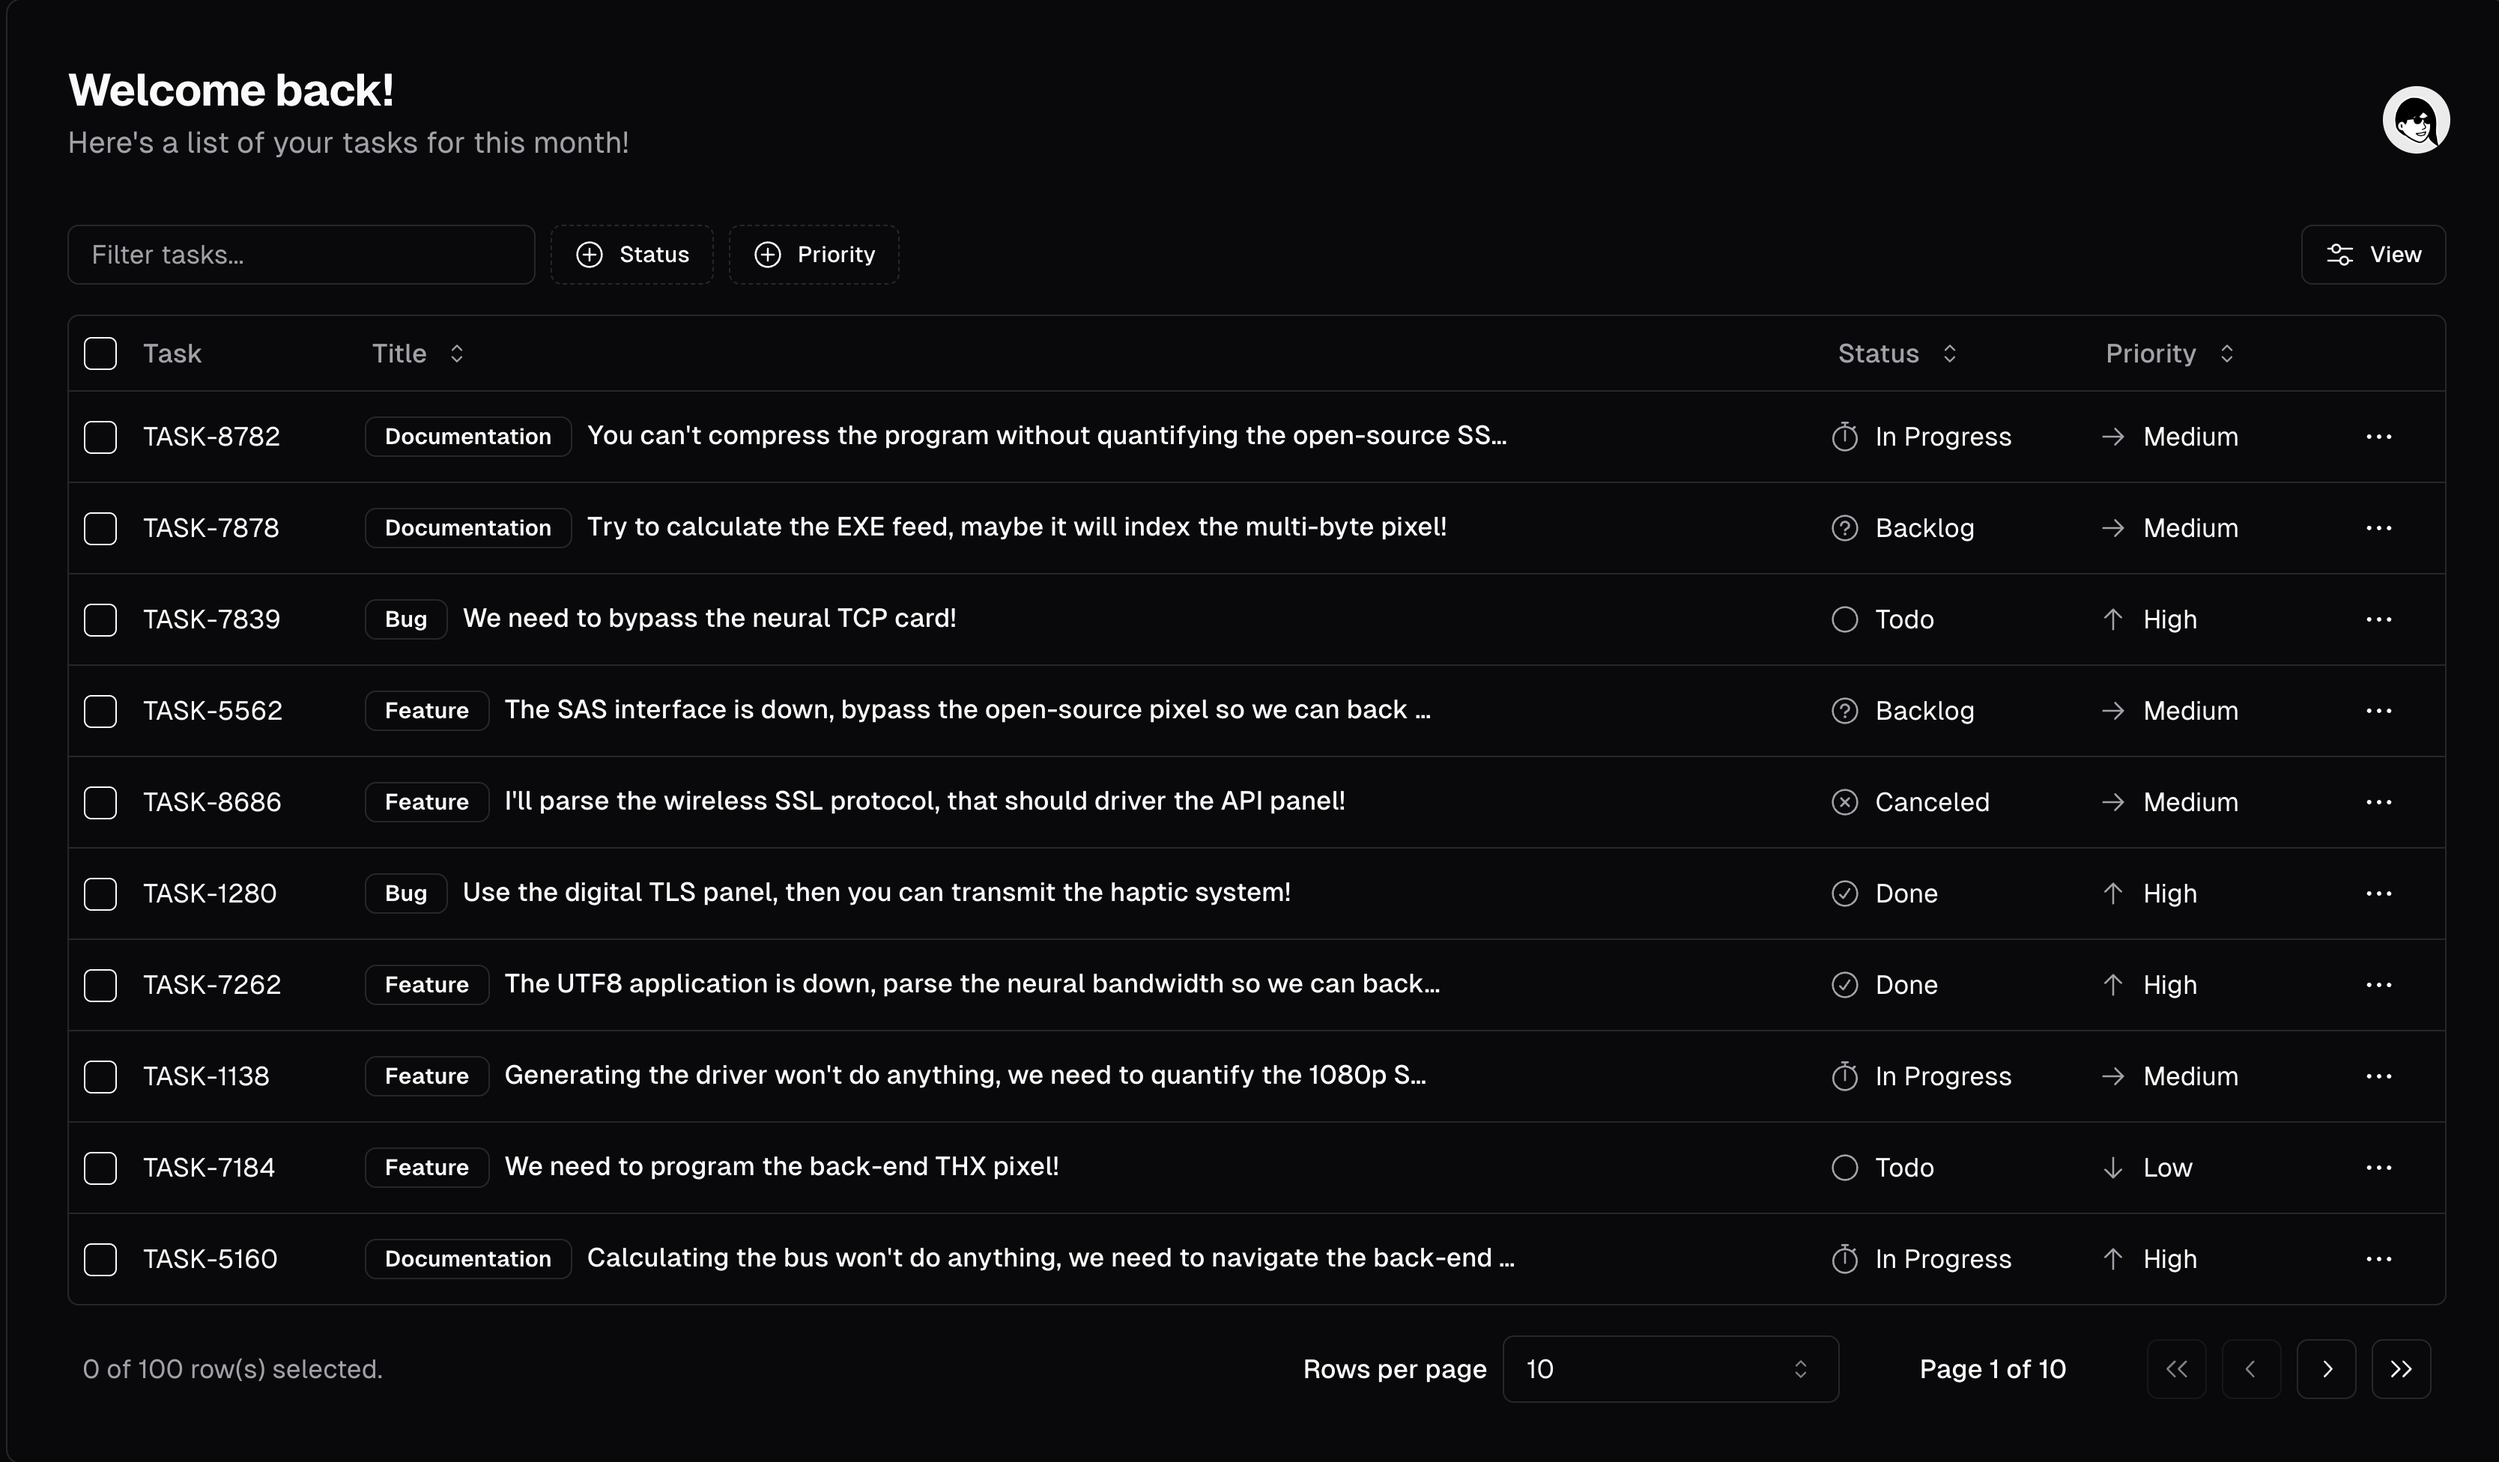
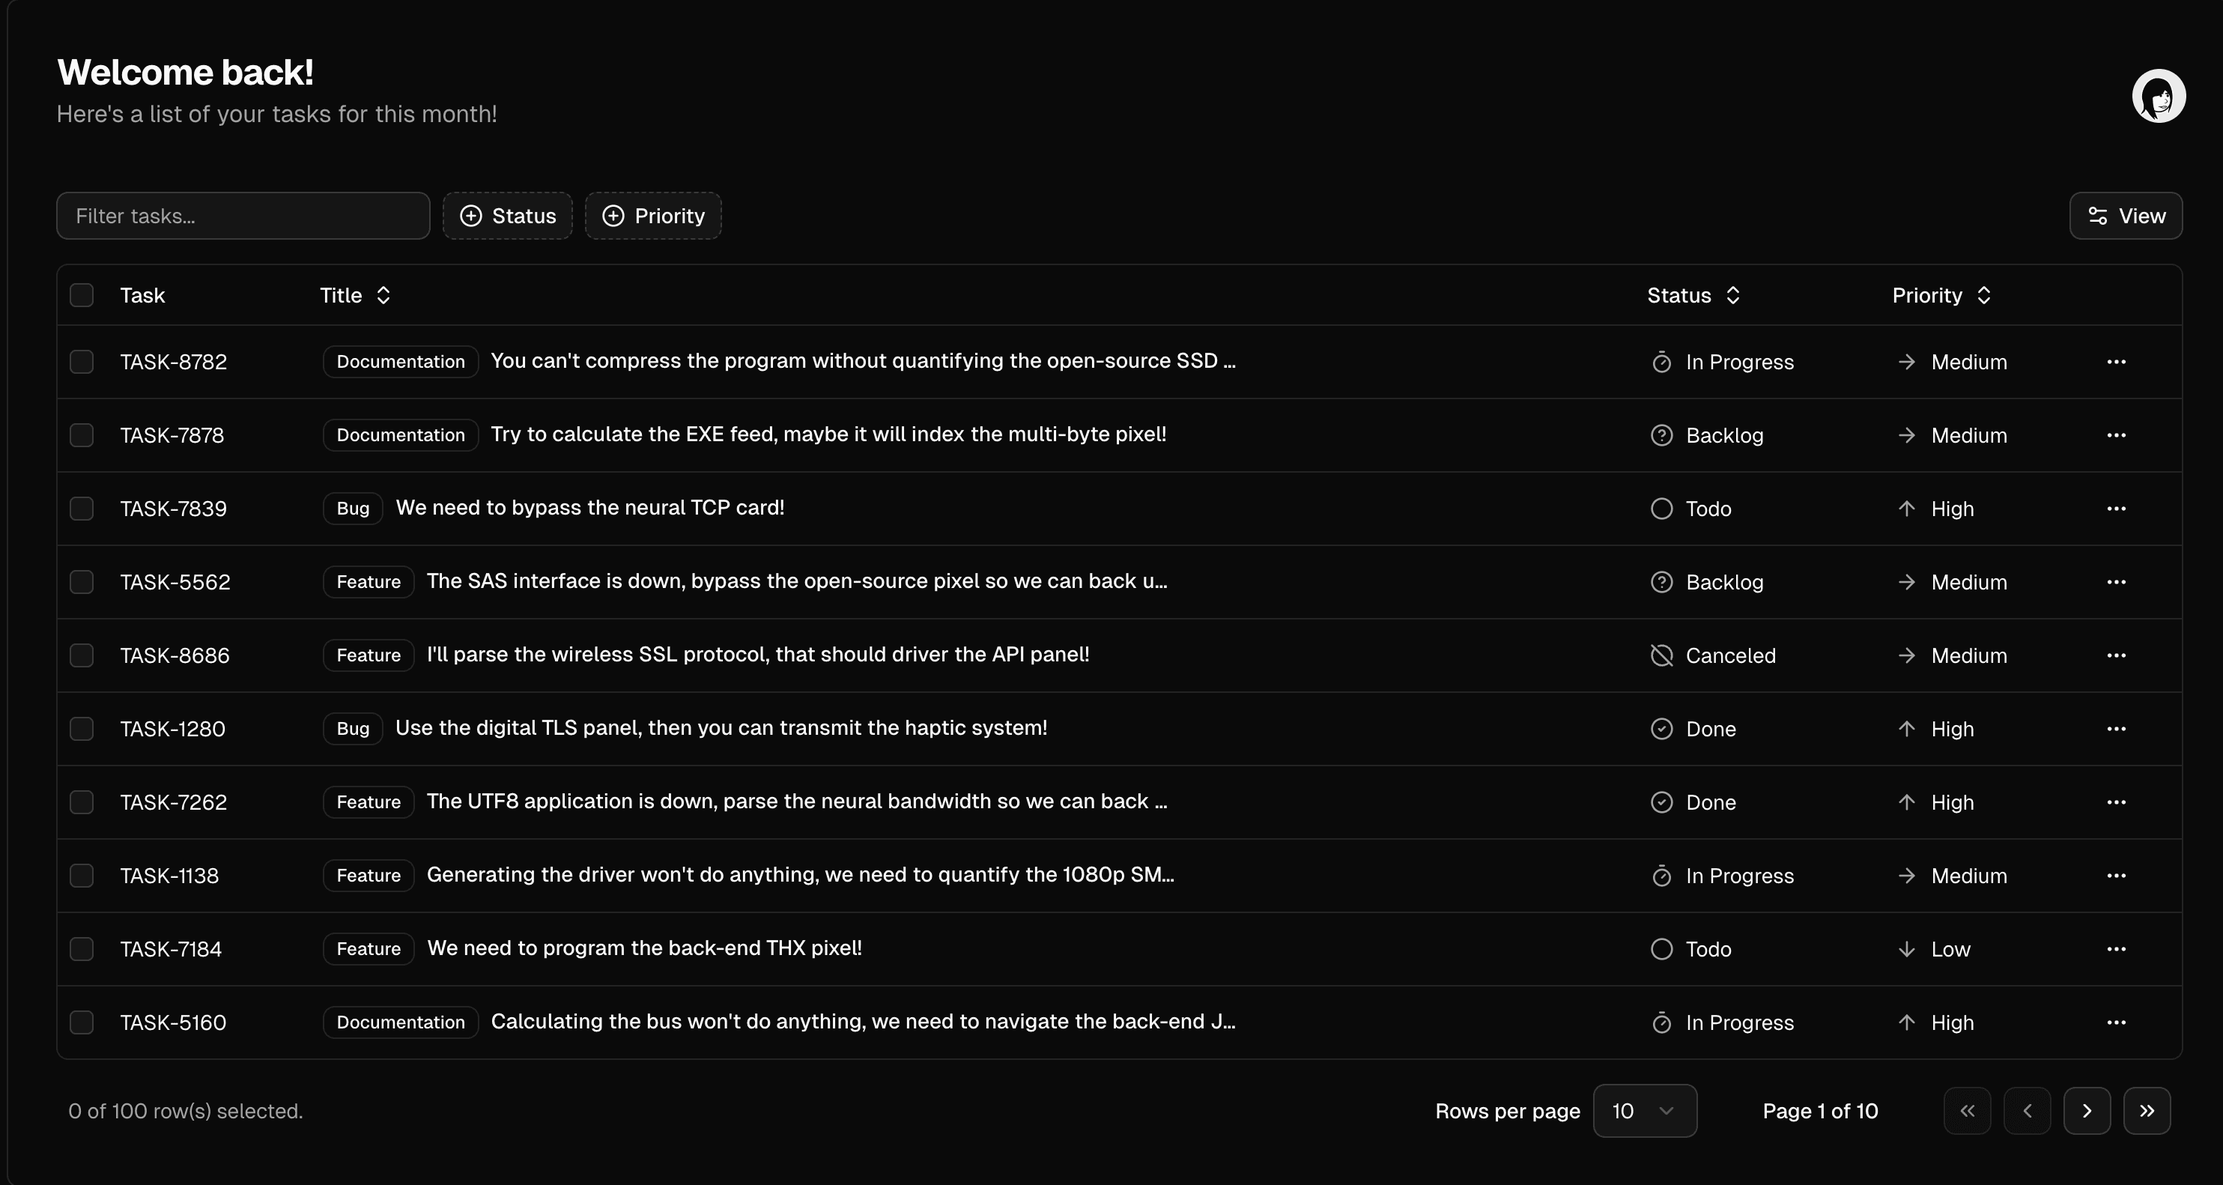
docs: update example screenshots (#1938)

diff --git a/sites/docs/src/routes/(app)/+page.svelte b/sites/docs/src/routes/(app)/+page.svelte
@@ -31,16 +31,8 @@
 			class="bg-background overflow-hidden rounded-lg border shadow-md md:hidden md:shadow-xl"
 		>
 			<div class="md:hidden">
-				<enhanced:img
-					src="$lib/img/examples/cards-light.png"
-					alt="cards"
-					class="block dark:hidden"
-				></enhanced:img>
-				<enhanced:img
-					src="$lib/img/examples/cards-dark.png"
-					alt="cards"
-					class="hidden dark:block"
-				></enhanced:img>
+				<img src="/img/examples/cards-light.png" alt="cards" class="block dark:hidden" />
+				<img src="/img/examples/cards-dark.png" alt="cards" class="hidden dark:block" />
 			</div>
 		</section>
 		<section class="hidden md:block [&>div]:p-0" style="--radius: 0.75rem;">

diff --git a/sites/docs/src/routes/(app)/examples/forms/+layout.svelte b/sites/docs/src/routes/(app)/examples/forms/+layout.svelte
@@ -30,14 +30,14 @@
 
 <div class="md:hidden">
 	<img
-		src="/examples/forms-light.png"
+		src="/img/examples/forms-light.png"
 		width={1280}
 		height={791}
 		alt="Forms"
 		class="block dark:hidden"
 	/>
 	<img
-		src="/examples/forms-dark.png"
+		src="/img/examples/forms-dark.png"
 		width={1280}
 		height={791}
 		alt="Forms"
